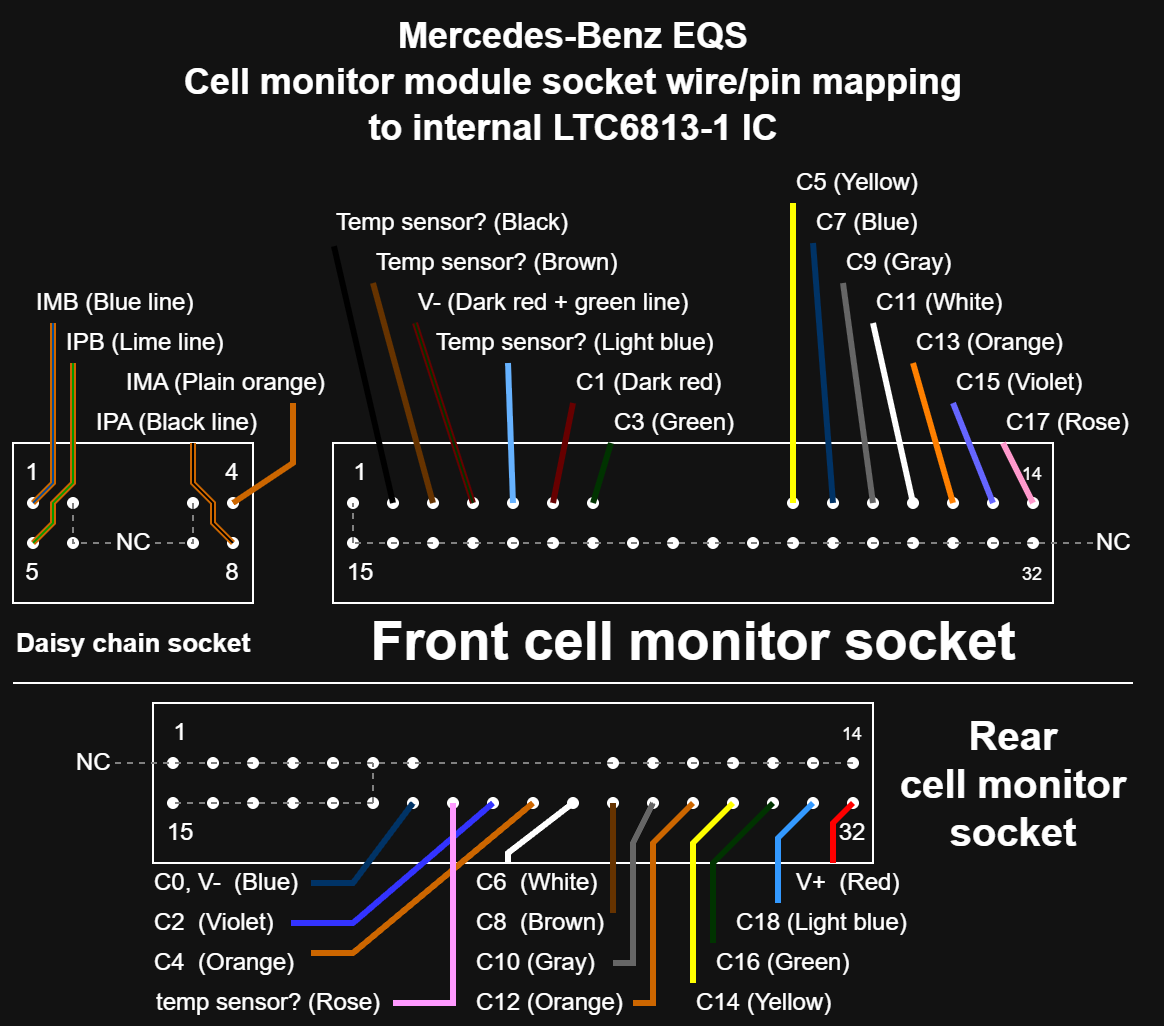
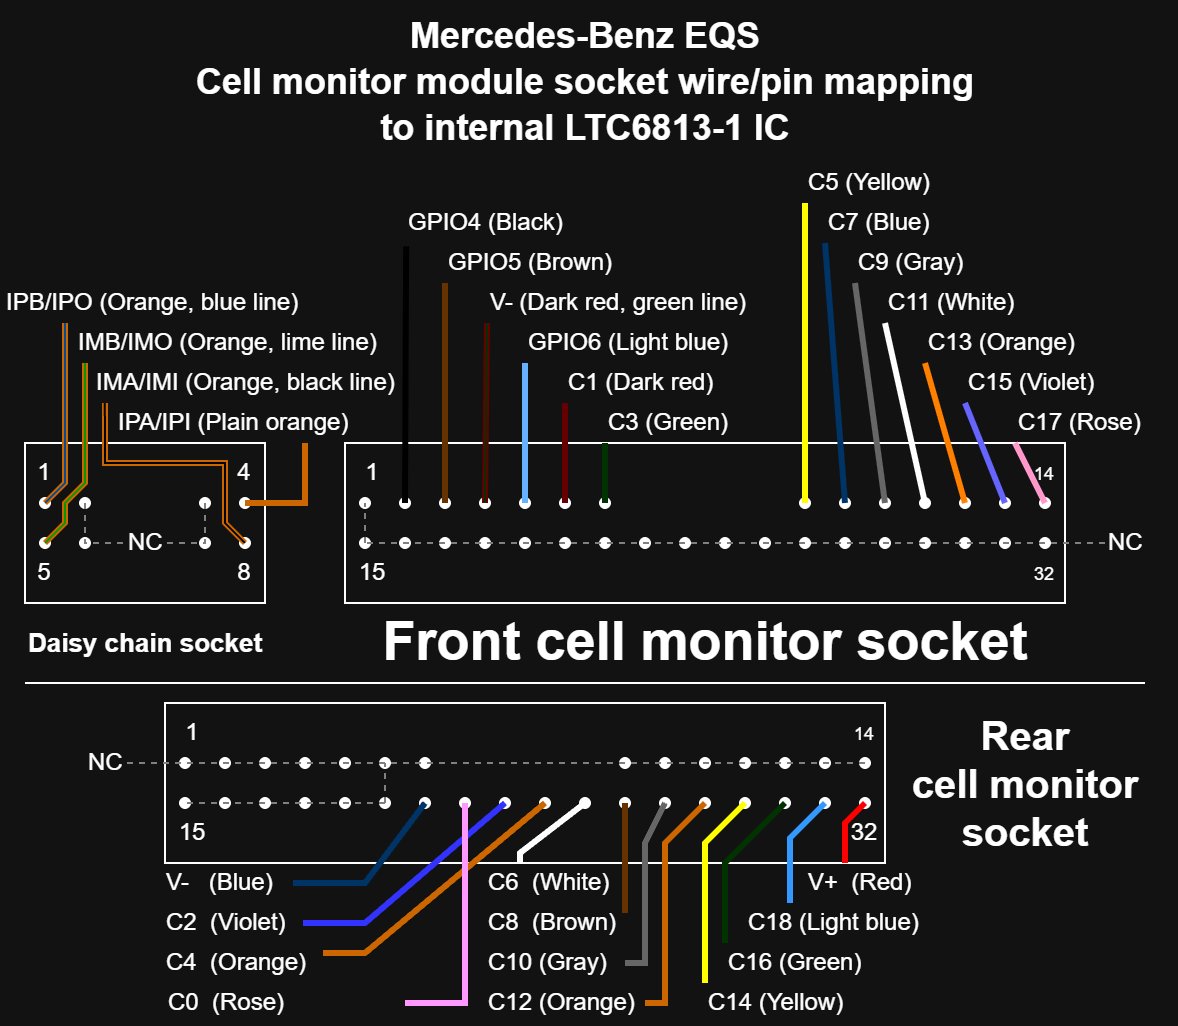
update: diagram && sources

diff --git a/README.md b/README.md
@@ -1,10 +1,17 @@
 # Mercedes EQS BMS research
-
 Doing my own research from scratch.
-Since there was no information available from third party sources
-at the moment of creation of this repository.
+Since i had no information available at the moment of creation
+of this repository.
 
 I'll add more details as I go along.
+
+> 19.11.2026 Update
+
+I have found similar topic on:
+https://openinverter.org/forum/viewtopic.php?t=5059
+
+This topic helped me to clarify correct order of ISO-SPI communication line,
+as well as temperature sensor GPIO.
 
 ## Discovered internals
 
@@ -151,14 +158,9 @@ There are two sockets used for balancing and
 _(Socket pinout)_
 
 #### Daisy chain socket to LTC6813-1 mapping:
-- 1, 5 - Twisted ISO SPI Pair (IMB, IPB)
-- 4, 8 - Twisted ISO SPI Pair (IMA, IPA)
+- 1, 5 - Twisted ISO SPI Pair (IPB, IMB)
+- 4, 8 - Twisted ISO SPI Pair (IPA, IMA)
 - Other pins: Not connected (NC).
-
-> [!WARNING]
-> I am not sure about twisted pair order.
->
-> I could not confirm the order on bench.
 
 #### Front socket to LTC6813-1 mapping:
 - 14: C17 (Rose)
@@ -170,11 +172,13 @@ _(Socket pinout)_
 - 8:  C5  (Yellow)
 - 7:  C3  (Green)
 - 6:  C1  (Dark red)
-- 5:  temp sensor? (Light blue)
+- 5:  GPIO6 (Light blue)
 - 4:  V-  (Dark red + green line)
-- 3:  temp sensor? (Brown)
-- 2:  temp sensor? (Black)
+- 3:  GPIO5 (Brown)
+- 2:  GPIO4 (Black)
 - Other pins: Not connected (NC)
+
+GPIO4, GPIO5, GPIO6 - Measures eternal NTC temperature sensors
 
 #### Rear socket to LTC6813-1 mapping:
 - 32: V+  (Red)
@@ -187,8 +191,8 @@ _(Socket pinout)_
 - 25: C6  (White)
 - 24: C4  (Orange)
 - 23: C2  (Violet)
-- 22: temp sensor? (Rose)
-- 21: V-, C0 (Blue)
+- 22: C0  (Rose)
+- 21: V-  (Blue)
 - Other pins: Not connected (NC)
 
 > [!NOTE]
